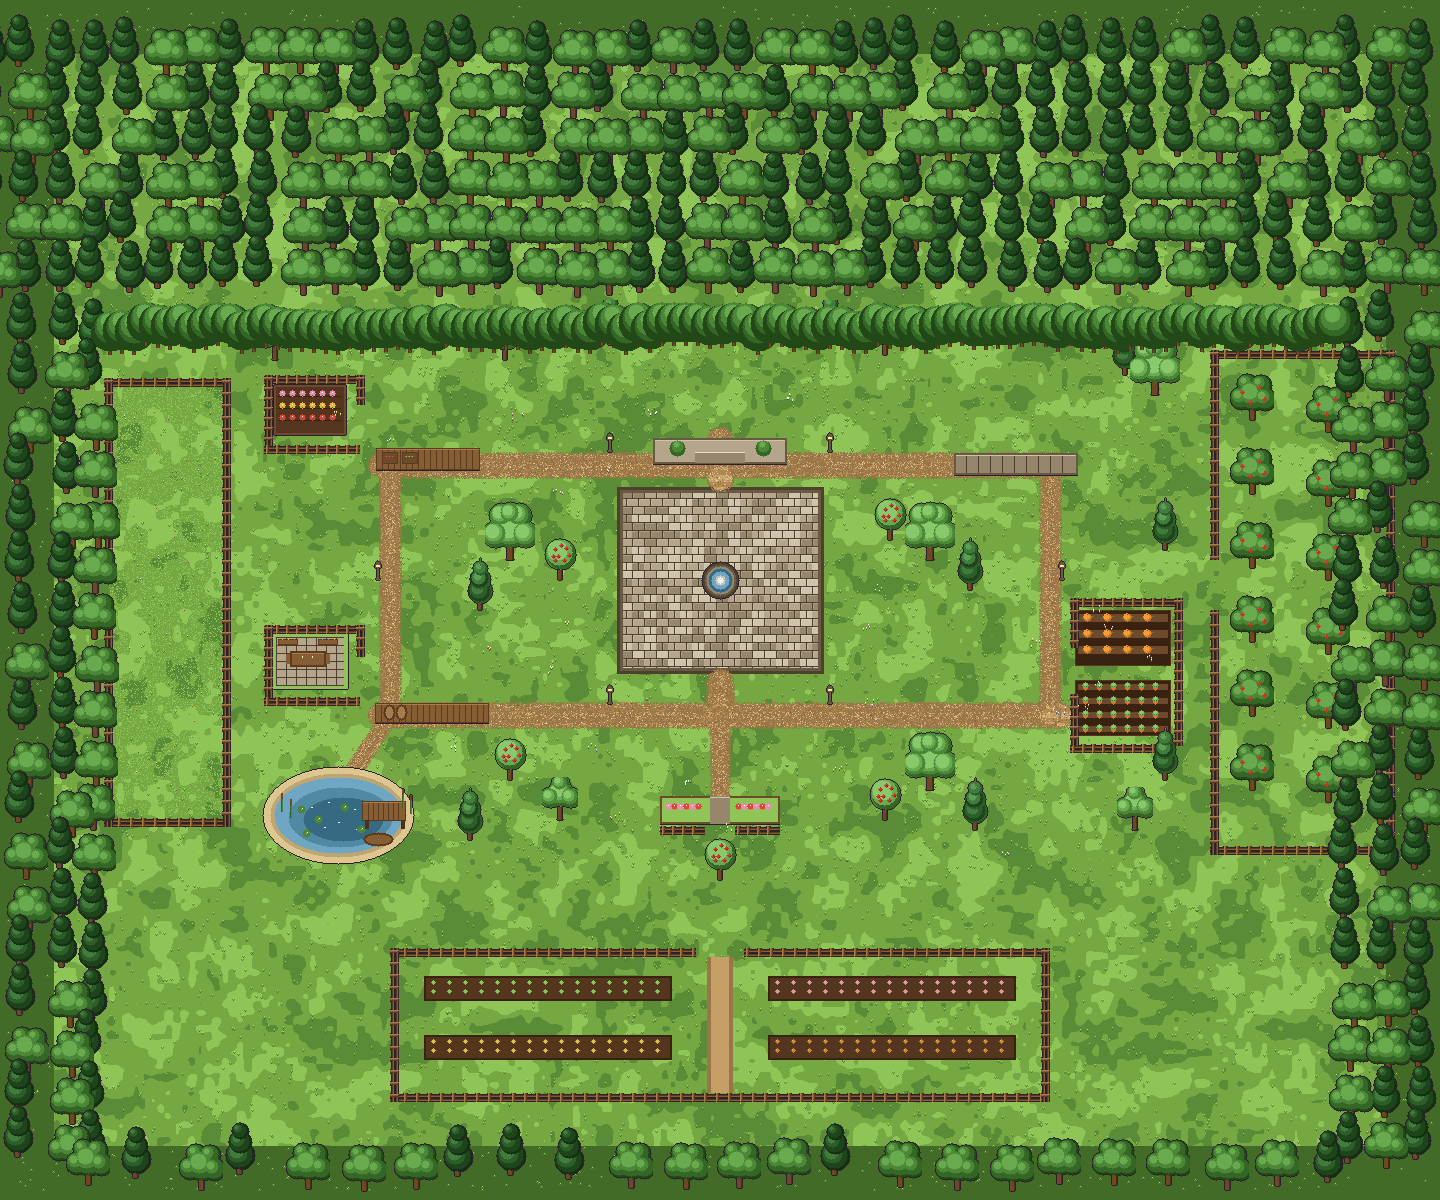
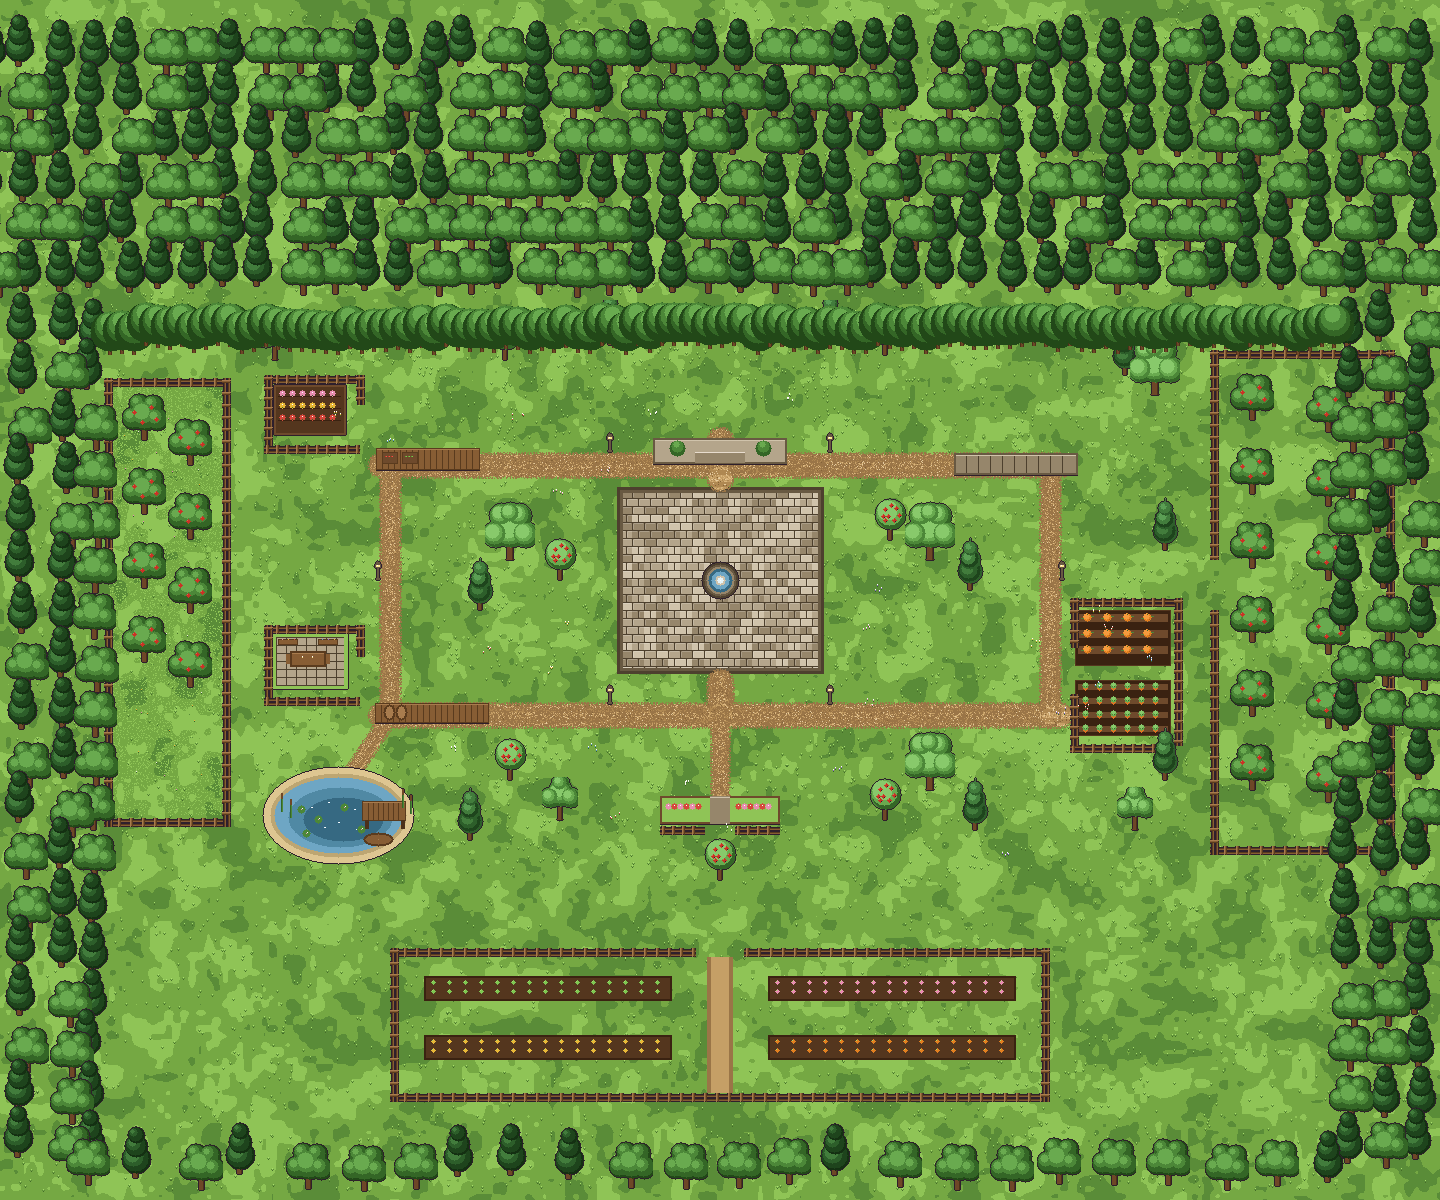
Fit Valley camera to pastoral bounds

Changed region(s): [[0.0, 0.0, 1.0, 1.0]]

diff --git a/src/map/pixel/PixelMap.tsx b/src/map/pixel/PixelMap.tsx
@@ -18,6 +18,7 @@ import {
   standPointFor,
   variantFor,
   type PixelCamera,
+  type PixelCameraBounds,
   type StandSpot,
 } from './layout'
 import { deriveWalkers, emoteFor, lastActs, lastSpeech, walkerWindowMs } from './choreography'
@@ -57,7 +58,7 @@ function hexA(hex: string, alpha: number): string {
 function frameCamera(
   vw: number,
   vh: number,
-  world: PixelArt['world'],
+  bounds: PixelCameraBounds,
   box: { x: number; y: number; w: number; h: number },
   pad: number,
 ): PixelCamera {
@@ -69,7 +70,7 @@ function frameCamera(
     },
     vw,
     vh,
-    world,
+    bounds,
   )
 }
 
@@ -251,7 +252,9 @@ export default function PixelMap() {
   // a side panel covers part of the viewport; fit and center in what remains
   const panelW = panel ? PANEL_WIDTH[panel.kind] : 0
   const availableWidth = size ? Math.max(1, size.w - panelW - 24) : 0
-  const availableHeight = size ? Math.max(1, size.h - VALLEY_TOOLBAR_HEIGHT - VALLEY_RUN_BAR_HEIGHT - 20) : 0
+  const viewportTop = VALLEY_TOOLBAR_HEIGHT + 10
+  const viewportBottom = entered ? VALLEY_RUN_BAR_HEIGHT + 10 : 0
+  const availableHeight = size ? Math.max(1, size.h - viewportTop - viewportBottom) : 0
   const autoFitRef = useRef(true)
   const cameraRef = useRef(camera)
   cameraRef.current = camera
@@ -264,8 +267,8 @@ export default function PixelMap() {
   useLayoutEffect(() => {
     if (!art || availableWidth === 0 || availableHeight === 0) return
     setCamera((current) => {
-      if (!current || autoFitRef.current) return fitCamera(availableWidth, availableHeight, art.world)
-      return constrainCamera(current, availableWidth, availableHeight, art.world)
+      if (!current || autoFitRef.current) return fitCamera(availableWidth, availableHeight, art.background)
+      return constrainCamera(current, availableWidth, availableHeight, art.background)
     })
   }, [art, availableWidth, availableHeight])
 
@@ -278,7 +281,7 @@ export default function PixelMap() {
     const container = containerRef.current
     if (!container) return
     const measuredWidth = Math.max(1, container.clientWidth - panelW - 24)
-    const measuredHeight = Math.max(1, container.clientHeight - VALLEY_TOOLBAR_HEIGHT - VALLEY_RUN_BAR_HEIGHT - 20)
+    const measuredHeight = Math.max(1, container.clientHeight - viewportTop - viewportBottom)
     // Entry and panel commits can briefly render with the previous size state.
     // Do not let a request captured against that stale box overwrite the
     // synchronous fit; the size update reruns this effect with current geometry.
@@ -289,7 +292,7 @@ export default function PixelMap() {
     }
 
     const current = cameraRef.current
-    const fitted = fitCamera(availableWidth, availableHeight, art.world)
+    const fitted = fitCamera(availableWidth, availableHeight, art.background)
     const target = cameraRequest.target
     let next: PixelCamera
     autoFitRef.current = target.type === 'fit'
@@ -301,7 +304,7 @@ export default function PixelMap() {
         { ...current, k: current.k * target.factor },
         availableWidth,
         availableHeight,
-        art.world,
+        art.background,
       )
     } else if (target.type === 'dept') {
       const building = buildingFor(art, target.deptId)
@@ -310,7 +313,7 @@ export default function PixelMap() {
             { cx: building.x + building.w / 2, cy: building.y + building.h / 2, k: Math.max(fitted.k, 1.6) },
             availableWidth,
             availableHeight,
-            art.world,
+            art.background,
           )
         : fitted
     } else if (target.type === 'agent') {
@@ -320,7 +323,7 @@ export default function PixelMap() {
             { cx: point.x, cy: point.y, k: Math.max(fitted.k, 2.2) },
             availableWidth,
             availableHeight,
-            art.world,
+            art.background,
           )
         : fitted
     } else {
@@ -334,7 +337,7 @@ export default function PixelMap() {
         const top = Math.min(...buildings.map((building) => building.y))
         const right = Math.max(...buildings.map((building) => building.x + building.w))
         const bottom = Math.max(...buildings.map((building) => building.y + building.h))
-        next = frameCamera(availableWidth, availableHeight, art.world, { x: left, y: top, w: right - left, h: bottom - top }, 48)
+        next = frameCamera(availableWidth, availableHeight, art.background, { x: left, y: top, w: right - left, h: bottom - top }, 48)
       }
     }
 
@@ -348,7 +351,7 @@ export default function PixelMap() {
         cx: from.cx + (next.cx - from.cx) * value,
         cy: from.cy + (next.cy - from.cy) * value,
         k: from.k + (next.k - from.k) * value,
-      }, availableWidth, availableHeight, art.world)),
+      }, availableWidth, availableHeight, art.background)),
     })
   }, [art, spots, panelW, availableWidth, availableHeight, cameraRequest])
 
@@ -370,7 +373,7 @@ export default function PixelMap() {
         { ...current, k: current.k * Math.exp(-event.deltaY * 0.0016) },
         availableWidth,
         availableHeight,
-        art.world,
+        art.background,
       ).k
       const worldX = current.cx + px / current.k
       const worldY = current.cy + py / current.k
@@ -378,7 +381,7 @@ export default function PixelMap() {
         cx: worldX - px / nextK,
         cy: worldY - py / nextK,
         k: nextK,
-      }, availableWidth, availableHeight, art.world))
+      }, availableWidth, availableHeight, art.background))
     }
     el.addEventListener('wheel', onWheel, { passive: false })
     return () => el.removeEventListener('wheel', onWheel)
@@ -411,7 +414,7 @@ export default function PixelMap() {
         { ...current, cx: current.cx - dx / current.k, cy: current.cy - dy / current.k },
         availableWidth,
         availableHeight,
-        art.world,
+        art.background,
       ))
     }
     drag.x = event.clientX
@@ -446,7 +449,7 @@ export default function PixelMap() {
         <div
           ref={viewportRef}
           className="absolute cursor-grab touch-none overflow-hidden active:cursor-grabbing"
-          style={{ left: 12, top: VALLEY_TOOLBAR_HEIGHT + 10, width: availableWidth, height: availableHeight }}
+          style={{ left: 12, top: viewportTop, width: availableWidth, height: availableHeight }}
           onPointerDown={onPointerDown}
           onPointerMove={onPointerMove}
           onPointerUp={finishPointer}

diff --git a/src/map/pixel/layout.ts b/src/map/pixel/layout.ts
@@ -13,34 +13,51 @@ export interface PixelCamera {
   k: number
 }
 
-/** Whole-world fit: the 960×600 stage scales to the container, clamped so it
- *  never becomes unreadable at small sizes or comically large on big screens. */
-export function fitK(vw: number, vh: number, world: { w: number; h: number }): number {
-  return Math.min(2.2, Math.max(0.4, Math.min(vw / world.w, vh / world.h)))
+export interface PixelCameraBounds {
+  x: number
+  y: number
+  w: number
+  h: number
 }
 
-/** Whole-world camera for a viewport. Fit is also the minimum user zoom: the
- *  scene can never become smaller than the complete, centered valley. */
-export function fitCamera(vw: number, vh: number, world: { w: number; h: number }): PixelCamera {
-  return { cx: world.w / 2, cy: world.h / 2, k: fitK(vw, vh, world) }
+/** Cover fit for the decorative scene bounds. The larger background is sized
+ *  so covering supported desktop aspect ratios still keeps the 960×600 town
+ *  visible, while no flat canvas can appear around the scenery. */
+export function fitK(vw: number, vh: number, bounds: PixelCameraBounds): number {
+  return Math.min(MAX_CAMERA_SCALE, Math.max(0.4, Math.max(vw / bounds.w, vh / bounds.h)))
 }
 
-/** Keep the painted world under the viewport. When one fitted dimension is
- *  smaller than the viewport, centering is the only valid position; otherwise
- *  the camera center is limited by the visible half-span in world units. */
+/** Maximum zoom-out framing: reveal the pastoral buffer while keeping its
+ *  painted background edge outside the viewport. */
+export function fitCamera(vw: number, vh: number, bounds: PixelCameraBounds): PixelCamera {
+  return {
+    cx: bounds.x + bounds.w / 2,
+    cy: bounds.y + bounds.h / 2,
+    k: fitK(vw, vh, bounds),
+  }
+}
+
+/** Keep the decorative background under the viewport. Interactive targets
+ *  remain in town coordinates; only the camera's permitted extent is larger. */
 export function constrainCamera(
   camera: PixelCamera,
   vw: number,
   vh: number,
-  world: { w: number; h: number },
+  bounds: PixelCameraBounds,
 ): PixelCamera {
-  const fit = fitK(vw, vh, world)
+  const fit = fitK(vw, vh, bounds)
   const k = Math.min(MAX_CAMERA_SCALE, Math.max(fit, camera.k))
   const halfW = vw / (2 * k)
   const halfH = vh / (2 * k)
+  const centerX = bounds.x + bounds.w / 2
+  const centerY = bounds.y + bounds.h / 2
   return {
-    cx: halfW >= world.w / 2 ? world.w / 2 : Math.max(halfW, Math.min(world.w - halfW, camera.cx)),
-    cy: halfH >= world.h / 2 ? world.h / 2 : Math.max(halfH, Math.min(world.h - halfH, camera.cy)),
+    cx: halfW >= bounds.w / 2
+      ? centerX
+      : Math.max(bounds.x + halfW, Math.min(bounds.x + bounds.w - halfW, camera.cx)),
+    cy: halfH >= bounds.h / 2
+      ? centerY
+      : Math.max(bounds.y + halfH, Math.min(bounds.y + bounds.h - halfH, camera.cy)),
     k,
   }
 }

diff --git a/src/index.css b/src/index.css
@@ -289,13 +289,6 @@ html.fun-mode {
   --color-fun-escalation: #d15a49;
   --color-fun-guard: #8a63c9;
   --color-fun-human: #e3ae52;
-
-  /* Extreme aspect ratios can outgrow even the decorative background bleed.
-     Continue its woodland edge instead of revealing an earth letterbox. */
-  --color-map-canvas: #436b28;
-}
-html.fun-mode.dark {
-  --color-map-canvas: #224818;
 }
 
 /* nearest-neighbour upscale for sprite <img>s and background strips. Also

diff --git a/docs/pixel-art-spec.md b/docs/pixel-art-spec.md
@@ -60,7 +60,7 @@ All PNGs are 8-bit RGBA. Sizes are pinned by the manifest schema.
 
 | File                              | Size      | Contents                                                        |
 | --------------------------------- | --------- | --------------------------------------------------------------- |
-| `background.png`                  | 1440×1200 | The unchanged 960×600 town centered at image (240,300), surrounded by a visual-only fenced pasture, orchard, gated market garden, and dense outer woodland |
+| `background.png`                  | 1440×1200 | The unchanged 960×600 town centered at image (240,300), surrounded by two fenced orchards, a gated market garden, and dense outer woodland |
 | `buildings/marketing.png`         | 96×84     | Poster & print stall: striped scalloped awning, poster window, arch door |
 | `buildings/finance.png`           | 120×100   | Stone bank: ashlar walls, gold-trimmed pediment, pilasters, arched double door |
 | `buildings/legal.png`             | 112×96    | Courthouse: pediment + frieze, four columns, fanlight doorway, broad steps |
@@ -84,6 +84,8 @@ each `door` point so they line up under every building sprite.
 The interactive world remains 960×600. The manifest places the larger background at
 world offset (-240,-300), giving the camera a 240px horizontal and 300px vertical
 scenery buffer without moving buildings, paths, walkers, or activity-follow targets.
+Maximum zoom-out covers the viewport with these background bounds rather than fitting
+only the town, so the surrounding scenery becomes visible without a flat letterbox.
 
 ## Style rules
 
